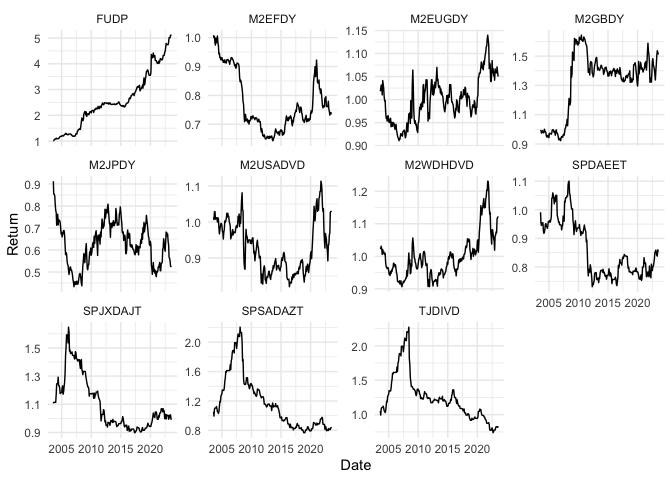
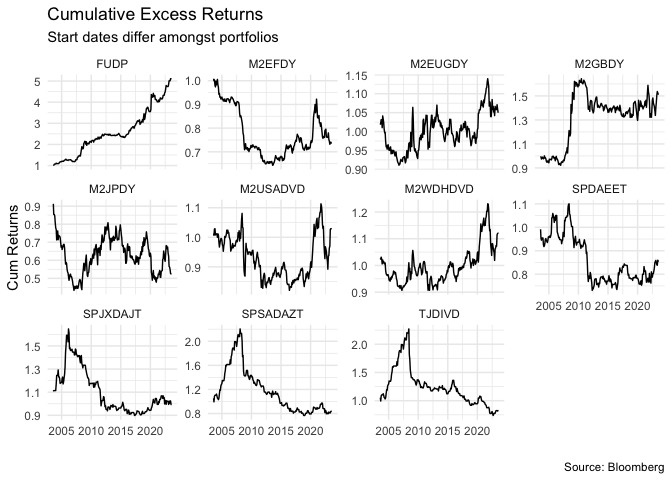
initial analysis

diff --git a/Thesis/README.md b/Thesis/README.md
@@ -86,7 +86,14 @@ plot <- compare %>% ggplot(aes(x = date, y = excess)) +
   geom_line() +
   labs(x = "Date", y = "Return") +
   theme_minimal() +
-  facet_wrap(~ ticker, scales = "free_y", ncol = 4)
+  facet_wrap(~ ticker, scales = "free_y", ncol = 4)+
+   labs(
+    title = "Cumulative Excess Returns",
+    subtitle = "Start dates differ amongst portfolios",
+    x = "",
+    y = "Cum Returns",
+    caption = "Source: Bloomberg"
+  )
 
 plot
 ```
@@ -115,6 +122,8 @@ I will use volatility and interest rate cycles.
     and ten year basis.
 
 -   For interest rate cycles use periods of interest cutting and hiking.
+
+\_ rolling returns, cant you rank them on
 
 ``` r
 # get vol data from yahoo 
@@ -235,4 +244,34 @@ g <- ggplot(plotdf, aes(date, RollRets, color = ticker)) +
 g
 ```
 
-![](README_files/figure-markdown_github/unnamed-chunk-2-1.png)
+![](README_files/figure-markdown_github/unnamed-chunk-2-1.png) \#
+Observations
+
+-   we have dividend portfolios of HY and DGPS in US, UK, JAPAN, EM and
+    SA.
+
+In cumulative returns - FUDP (HY) had the most impressive
+
+These next two show marginal improvements over market indices -
+M2EUGDY - M2GBDY
+
+Overall a positive excess return does show some gain to harvesting such
+portfolios.
+
+Stratification analysis
+
+If we just consider the level of volatility in global financial markets.
+we can see a clear trend.
+
+-   most poortfolios give lower returns when in high vol versus low vol
+-   except for SPSADAZT, TJDIVD, SPDAEET and M2EFDY.
+
+Rolling returns
+
+Overall, massive divergence followed by a convergence in rolling excess
+returns. There is some divergence towards the end of the sample period.
+
+-   FUDP, SPSADAZT, TJDIVD visually have massive varinace in their
+    rolling excess returns.
+
+-   Others dont have worrying movements in rolling returns
